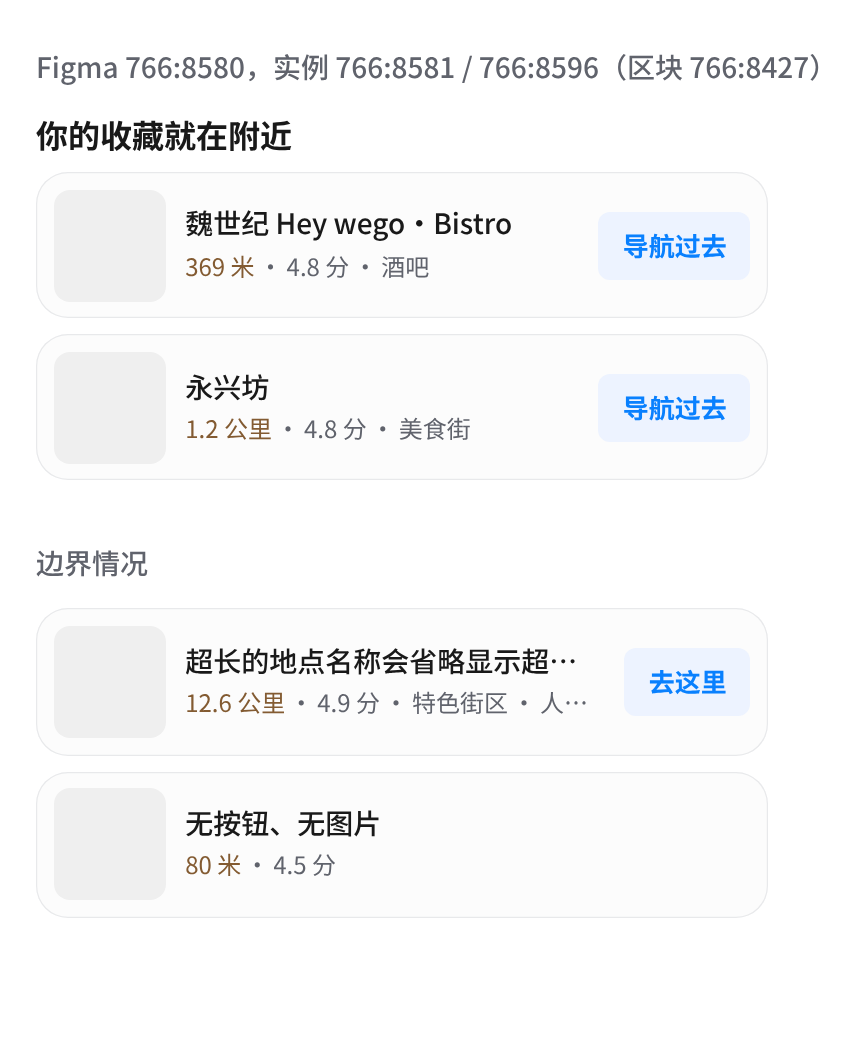
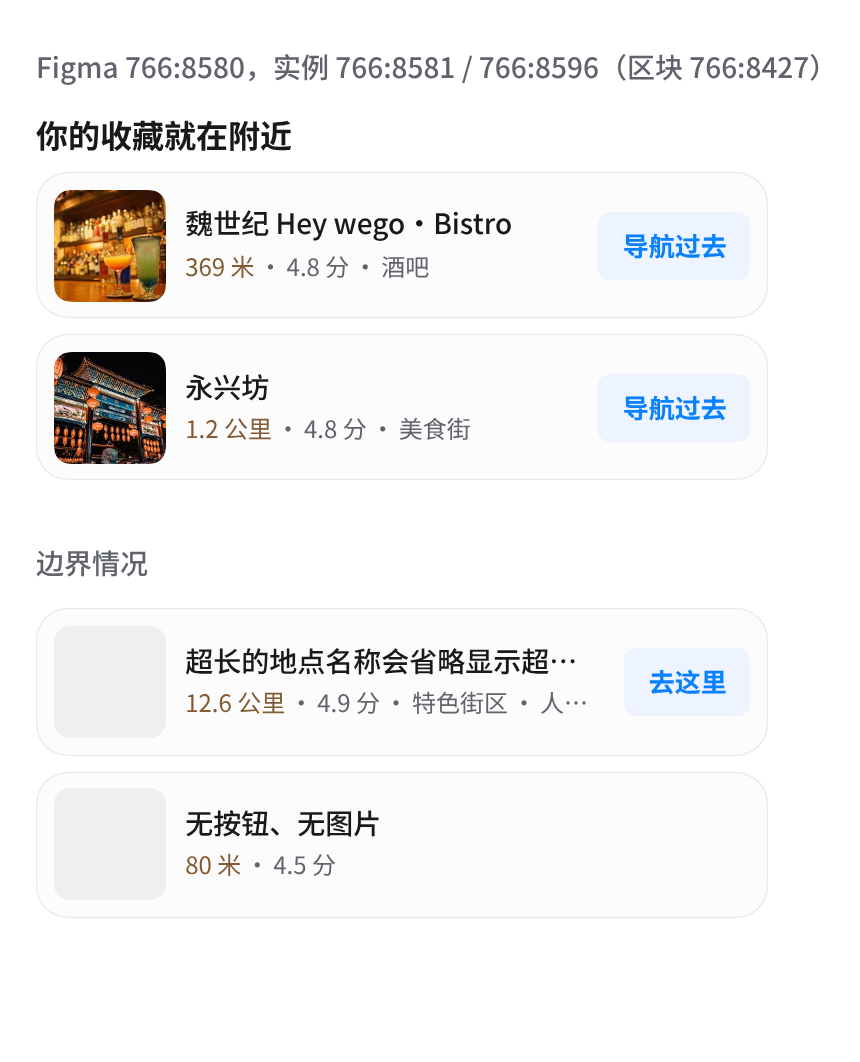
feat(more-card): 横向列表末尾的查看更多卡；补齐收藏地点图片
- <amap-more-card>：合并「查看更多 / 查看其他榜单 / 查看完整扫街榜」，高度随行撑满，派发 more-select
- amap-section 横向滑动时卡片保持原宽，新增 --section-row-gap
- assets/place-row/samples：魏世纪 Bistro、永兴坊 @3x
- 预览页 preview/more-card.html

Claude-Session: https://claude.ai/code/session_01HmosH7j6FmjJ8BokUZHb64

Changed region(s): [[0.0605, 0.1554, 0.2116, 0.435]]

diff --git a/preview/more-card.html b/preview/more-card.html
@@ -1,0 +1,46 @@
+<!doctype html>
+<html lang="zh-CN">
+<head>
+  <meta charset="utf-8">
+  <meta name="viewport" content="width=device-width, initial-scale=1">
+  <title>查看更多卡 · 到达页设计系统</title>
+  <link rel="stylesheet" href="../tokens/tokens.css">
+  <link rel="stylesheet" href="../components/primitives/primitives.css">
+  <link rel="stylesheet" href="../components/section/section.css">
+  <link rel="stylesheet" href="../components/poi-recommend/poi-recommend.css">
+  <link rel="stylesheet" href="../components/more-card/more-card.css">
+  <style>
+    body { margin: 0; padding: 24px 0; background: #fff; font-family: var(--ds-font-family-base); color: #191919; }
+    .label { font-size: 14px; font-weight: 500; color: #60636c; margin: 32px 18px 12px; }
+    .label:first-child { margin-top: 0; }
+    .solo { display: flex; gap: 16px; align-items: flex-start; padding: 0 18px; }
+    .solo amap-more-card { align-self: auto; }
+    #log { font-size: 12px; color: #00a27f; min-height: 16px; margin: 16px 18px; font-family: ui-monospace, Menlo, monospace; }
+  </style>
+</head>
+<body asset-base="../assets/">
+  <p class="label">三个 component：查看更多 765:5691 · 查看其他榜单 765:6006 · 查看完整扫街榜 765:4869</p>
+  <div class="solo">
+    <amap-more-card style="height:168px"></amap-more-card>
+    <amap-more-card label="查看其他榜单" style="height:199px"></amap-more-card>
+    <amap-more-card label="看完整&#10;扫街榜" style="height:370px"></amap-more-card>
+  </div>
+
+  <p class="label">放在横向列表末尾，高度自动撑满（实例 765:7186 等，间距 12）</p>
+  <amap-section heading="附近值得去" layout="scroll" style="--section-row-gap: 12px">
+    <amap-poi-recommend name="大唐不夜城" tag="特色街区" saves="44.6w+人收藏" tint="#936B3B" tint-end="#93543B" image="../assets/poi-recommend/samples/datang-buyecheng.jpg"></amap-poi-recommend>
+    <amap-poi-recommend name="陕西历史博物馆" tag="文物古迹" saves="30.9w+人收藏" tint="#3A4A4C" image="../assets/poi-recommend/samples/shaanxi-history-museum.jpg"></amap-poi-recommend>
+    <amap-poi-recommend name="永宁门" tag="文物古迹" saves="36.1w+人收藏" tint="#892929" tint-end="#894129" image="../assets/poi-recommend/samples/yongningmen.jpg"></amap-poi-recommend>
+    <amap-more-card></amap-more-card>
+  </amap-section>
+
+  <div id="log"></div>
+  <script src="../components/primitives/primitives.js"></script>
+  <script src="../components/section/section.js"></script>
+  <script src="../components/poi-recommend/poi-recommend.js"></script>
+  <script src="../components/more-card/more-card.js"></script>
+  <script>
+    document.addEventListener('more-select', (e) => { document.getElementById('log').textContent = 'more-select → ' + JSON.stringify(e.detail); });
+  </script>
+</body>
+</html>

diff --git a/components/more-card/more-card.js b/components/more-card/more-card.js
@@ -1,0 +1,35 @@
+/**
+ * <amap-more-card> · 横向列表末尾的「查看更多」卡
+ * Figma 765:5691「查看更多」/ 765:6006「查看其他榜单」/ 765:4869「查看完整扫街榜」，共 10 个实例
+ * 三个 component 只有文案与高度不同，合为一个组件；高度随所在行撑满
+ *
+ * 属性
+ *   label   文案，默认「查看更多」；可用换行（属性里写 &#10;，或 el.setAttribute('label', '看完整\n扫街榜')）
+ *
+ * 事件（bubbles + composed）
+ *   more-select → { label }
+ */
+(() => {
+  const esc = (s) =>
+    String(s ?? '').replace(/[&<>"']/g, (c) => ({ '&': '&amp;', '<': '&lt;', '>': '&gt;', '"': '&quot;', "'": '&#39;' }[c]));
+  const CHEVRON = '<svg viewBox="0 0 7 13" fill="currentColor" aria-hidden="true"><path d="M7 6.5C7 6.68486 6.93166 6.86957 6.79497 7.0106L1.19494 12.7885C0.92157 13.0705 0.478551 13.0705 0.205029 12.7885C-0.0683428 12.5064 -0.0683428 12.0493 0.205029 11.7671L5.31003 6.5L0.20518 1.23289C-0.0681915 0.950835 -0.0681915 0.493748 0.20518 0.211539C0.478551 -0.0705131 0.92157 -0.0705131 1.19509 0.211539L6.79512 5.9894C6.93166 6.13043 7 6.31514 7 6.5Z"/></svg>';
+
+  class AmapMoreCard extends HTMLElement {
+    static get observedAttributes() { return ['label']; }
+    connectedCallback() { this.render(); }
+    attributeChangedCallback() { if (this.isConnected) this.render(); }
+
+    render() {
+      const label = this.getAttribute('label') ?? '查看更多';
+      this.innerHTML = `
+        <button type="button" class="amap-more" aria-label="${esc(label.replace(/\s+/g, ''))}">
+          <span class="amap-more__icon">${CHEVRON}</span>
+          <span class="amap-more__label">${esc(label)}</span>
+        </button>`;
+      this.querySelector('.amap-more').addEventListener('click', () =>
+        this.dispatchEvent(new CustomEvent('more-select', { bubbles: true, composed: true, detail: { label } })));
+    }
+  }
+
+  if (!customElements.get('amap-more-card')) customElements.define('amap-more-card', AmapMoreCard);
+})();

diff --git a/components/more-card/more-card.css b/components/more-card/more-card.css
@@ -1,0 +1,52 @@
+/* <amap-more-card> · 横向列表末尾的「查看更多」卡
+ * Figma 765:5691 查看更多 / 765:6006 查看其他榜单 / 765:4869 查看完整扫街榜（三者仅文案与高度不同）
+ * 依赖 tokens/tokens.css
+ */
+amap-more-card {
+  --more-width: 100px;
+
+  display: flex;
+  flex: none;
+  width: var(--more-width);
+  align-self: stretch;          /* 高度随所在横向列表撑满 */
+  min-height: 120px;
+  font-family: var(--ds-font-family-base);
+}
+
+.amap-more {
+  flex: 1;
+  display: flex;
+  flex-direction: column;
+  align-items: center;
+  justify-content: center;
+  gap: var(--ds-space-6);
+  margin: 0;
+  padding: 0 var(--ds-space-8);
+  border: 0;
+  border-radius: var(--ds-radius-16);
+  background: var(--ds-color-action-tonal-surface);
+  color: var(--ds-color-action-secondary);
+  font: inherit;
+  cursor: pointer;
+  -webkit-tap-highlight-color: transparent;
+}
+.amap-more:active { opacity: 0.7; }
+.amap-more:focus-visible { outline: 2px solid var(--ds-color-focus-ring); outline-offset: 2px; }
+
+.amap-more__icon {
+  display: flex;
+  align-items: center;
+  justify-content: center;
+  width: 24px;
+  height: 24px;
+  border-radius: 50%;
+  background: var(--ds-color-action-tonal-icon-surface);
+}
+.amap-more__icon svg { display: block; width: 7px; height: 13px; transform: translateX(1.5px); }   /* 同 Figma，箭头略偏右做视觉居中 */
+
+.amap-more__label {
+  font-size: var(--ds-type-body-s-size);
+  line-height: 16.2px;
+  text-align: center;
+  white-space: pre-line;   /* 文案里的换行会保留，如「看完整\n扫街榜」 */
+}

diff --git a/tokens/tokens.css b/tokens/tokens.css
@@ -36,6 +36,7 @@
   --ds-blue-500: #007fff;
   --ds-blue-50: #eaf1ff;
   --ds-blue-40: #edf3ff;
+  --ds-blue-100: #d4e6ff;
   --ds-green-700: #16a85a;
   --ds-green-200: #a0dba4;
   --ds-green-500: #25a544;
@@ -116,6 +117,7 @@
   --ds-color-action-primary-end: var(--ds-blue-650); /* 主按钮渐变终点 */
   --ds-color-action-secondary: var(--ds-blue-550); /* 描边按钮的边框与文字 */
   --ds-color-action-tonal-surface: var(--ds-blue-40); /* 浅底按钮（去停车 / 去加油），文字同 action-secondary */
+  --ds-color-action-tonal-icon-surface: var(--ds-blue-100); /* 浅底卡片上的圆形图标底（查看更多卡） */
   --ds-color-score-solid: var(--ds-blue-600); /* 评分徽标左侧实色块 */
   --ds-color-score-text: var(--ds-blue-500); /* 评分徽标文字（超棒） */
   --ds-color-score-surface: var(--ds-blue-50); /* 评分徽标底色 */

diff --git a/components/section/section.css b/components/section/section.css
@@ -47,7 +47,9 @@ amap-section {
 /* 横向滑动的内容（如当地特色菜）：<amap-section layout="scroll"> */
 amap-section[layout="scroll"] .amap-section__body {
   flex-direction: row;
+  gap: var(--section-row-gap, var(--section-gap));   /* 横向卡片间距，榜单 / 推荐卡为 12 */
   overflow-x: auto;
   scrollbar-width: none;
 }
 amap-section[layout="scroll"] .amap-section__body::-webkit-scrollbar { display: none; }
+amap-section[layout="scroll"] .amap-section__body > * { flex: none; }   /* 横向滑动时卡片保持原宽 */

diff --git a/components/section/section.js b/components/section/section.js
@@ -14,7 +14,7 @@
  *   layout      不传为竖向堆叠；scroll 为横向滑动（如当地特色菜）
  *
  * 事件：section-more（点击右侧入口）
- * 组件变量：--section-inset（左右内边距，默认 18）、--section-gap（默认 8）
+ * 组件变量：--section-inset（左右内边距，默认 18）、--section-gap（默认 8）、--section-row-gap（横向滑动时卡片间距，默认同 gap）
  */
 (() => {
   const esc = (s) =>

diff --git a/README.md b/README.md
@@ -11,7 +11,7 @@ assets/      从 Figma 导出的素材
 
 ## 查看交互效果
 
-在浏览器打开 `preview/` 下对应页面：`primitives.html`（基础组件）、`header.html`、`poi-card.html`（Figma 全部 9 个实例 + 边界情况）、`place-card.html`（三种场景共 9 个实例 + 边界情况）、`poi-recommend.html`（9 个实例 + 状态）、`dish-card.html`（6 个实例 + 边界情况）、`nearby-list.html`（3 个实例 + 边界情况）、`taxi-bill.html`、`service-card.html`（停车场 / 加油站）、`reminders.html`（限行 / 末班车）、`nav-bar.html`、`place-row.html`（收藏地点）。事件会显示在页面上。
+在浏览器打开 `preview/` 下对应页面：`primitives.html`（基础组件）、`header.html`、`poi-card.html`（Figma 全部 9 个实例 + 边界情况）、`place-card.html`（三种场景共 9 个实例 + 边界情况）、`poi-recommend.html`（9 个实例 + 状态）、`dish-card.html`（6 个实例 + 边界情况）、`nearby-list.html`（3 个实例 + 边界情况）、`taxi-bill.html`、`service-card.html`（停车场 / 加油站）、`reminders.html`（限行 / 末班车）、`nav-bar.html`、`place-row.html`（收藏地点）、`more-card.html`。事件会显示在页面上。
 
 加载顺序：`tokens.css` → `primitives.css/js` → 复合组件。
 
@@ -295,7 +295,7 @@ assets/      从 Figma 导出的素材
 
 两个 component 结构相同：模块标题 + 两张服务卡。拆成两个组件：
 
-- `<amap-section heading [more-label] [layout=scroll]>`：通用模块容器，标题 16 Semibold，可带右侧「查看更多 >」（派发 `section-more`），左右内边距 `--section-inset`（全页统一 18，已确认；停车场 / 加油站原稿的 16 已改为 18），标题与内容、内容之间间距 8。子元素即内容。后续拼页面时所有模块都用它。
+- `<amap-section heading [more-label] [layout=scroll]>`：通用模块容器，标题 16 Semibold，可带右侧「查看更多 >」（派发 `section-more`），`layout="scroll"` 时横向滑动、卡片保持原宽（间距 `--section-row-gap`，榜单 / 推荐卡为 12），左右内边距 `--section-inset`（全页统一 18，已确认；停车场 / 加油站原稿的 16 已改为 18），标题与内容、内容之间间距 8。子元素即内容。后续拼页面时所有模块都用它。
 - `<amap-service-card>`：随容器撑满（统一边距后为 366 宽，原稿 370），左侧名称 / 说明行 / 标签，右侧浅底按钮。
 
 ```html
@@ -383,3 +383,24 @@ assets/      从 Figma 导出的素材
 事件：`place-select`（`{ name }`，点图片或文字）、`place-action`（`{ name, label }`）。名称 `#222222` → 正文色。
 
 素材：`assets/place-row/samples/*.jpg`，2 张 56×56 @3x，仅预览用。
+
+### 12. 查看更多卡（Figma `765:5691` 查看更多 / `765:6006` 查看其他榜单 / `765:4869` 查看完整扫街榜）
+
+三个 component 只有文案与高度不同，合为一个组件，共 10 个实例，都放在横向卡片列表的末尾。宽 100，高度随所在行撑满（168 / 199 / 370 / 390）。
+
+```html
+<link rel="stylesheet" href="components/more-card/more-card.css">
+<script src="components/more-card/more-card.js"></script>
+
+<amap-section heading="附近值得去" layout="scroll" style="--section-row-gap: 12px">
+  <amap-poi-recommend …></amap-poi-recommend>
+  <amap-more-card></amap-more-card>
+</amap-section>
+
+<amap-more-card label="查看其他榜单"></amap-more-card>
+<amap-more-card label="看完整&#10;扫街榜"></amap-more-card>
+```
+
+`label` 默认「查看更多」，可换行。事件：`more-select`（`{ label }`）。
+
+新增 token：`--ds-color-action-tonal-icon-surface`（`#D4E6FF`）。卡片底色 Figma 为 `#EBF3FE`，并入浅底按钮色 `#EDF3FF`。实例 `777:2659`（上班到达那行）高 384，比同行卡片（390）矮 6，组件按撑满处理。
